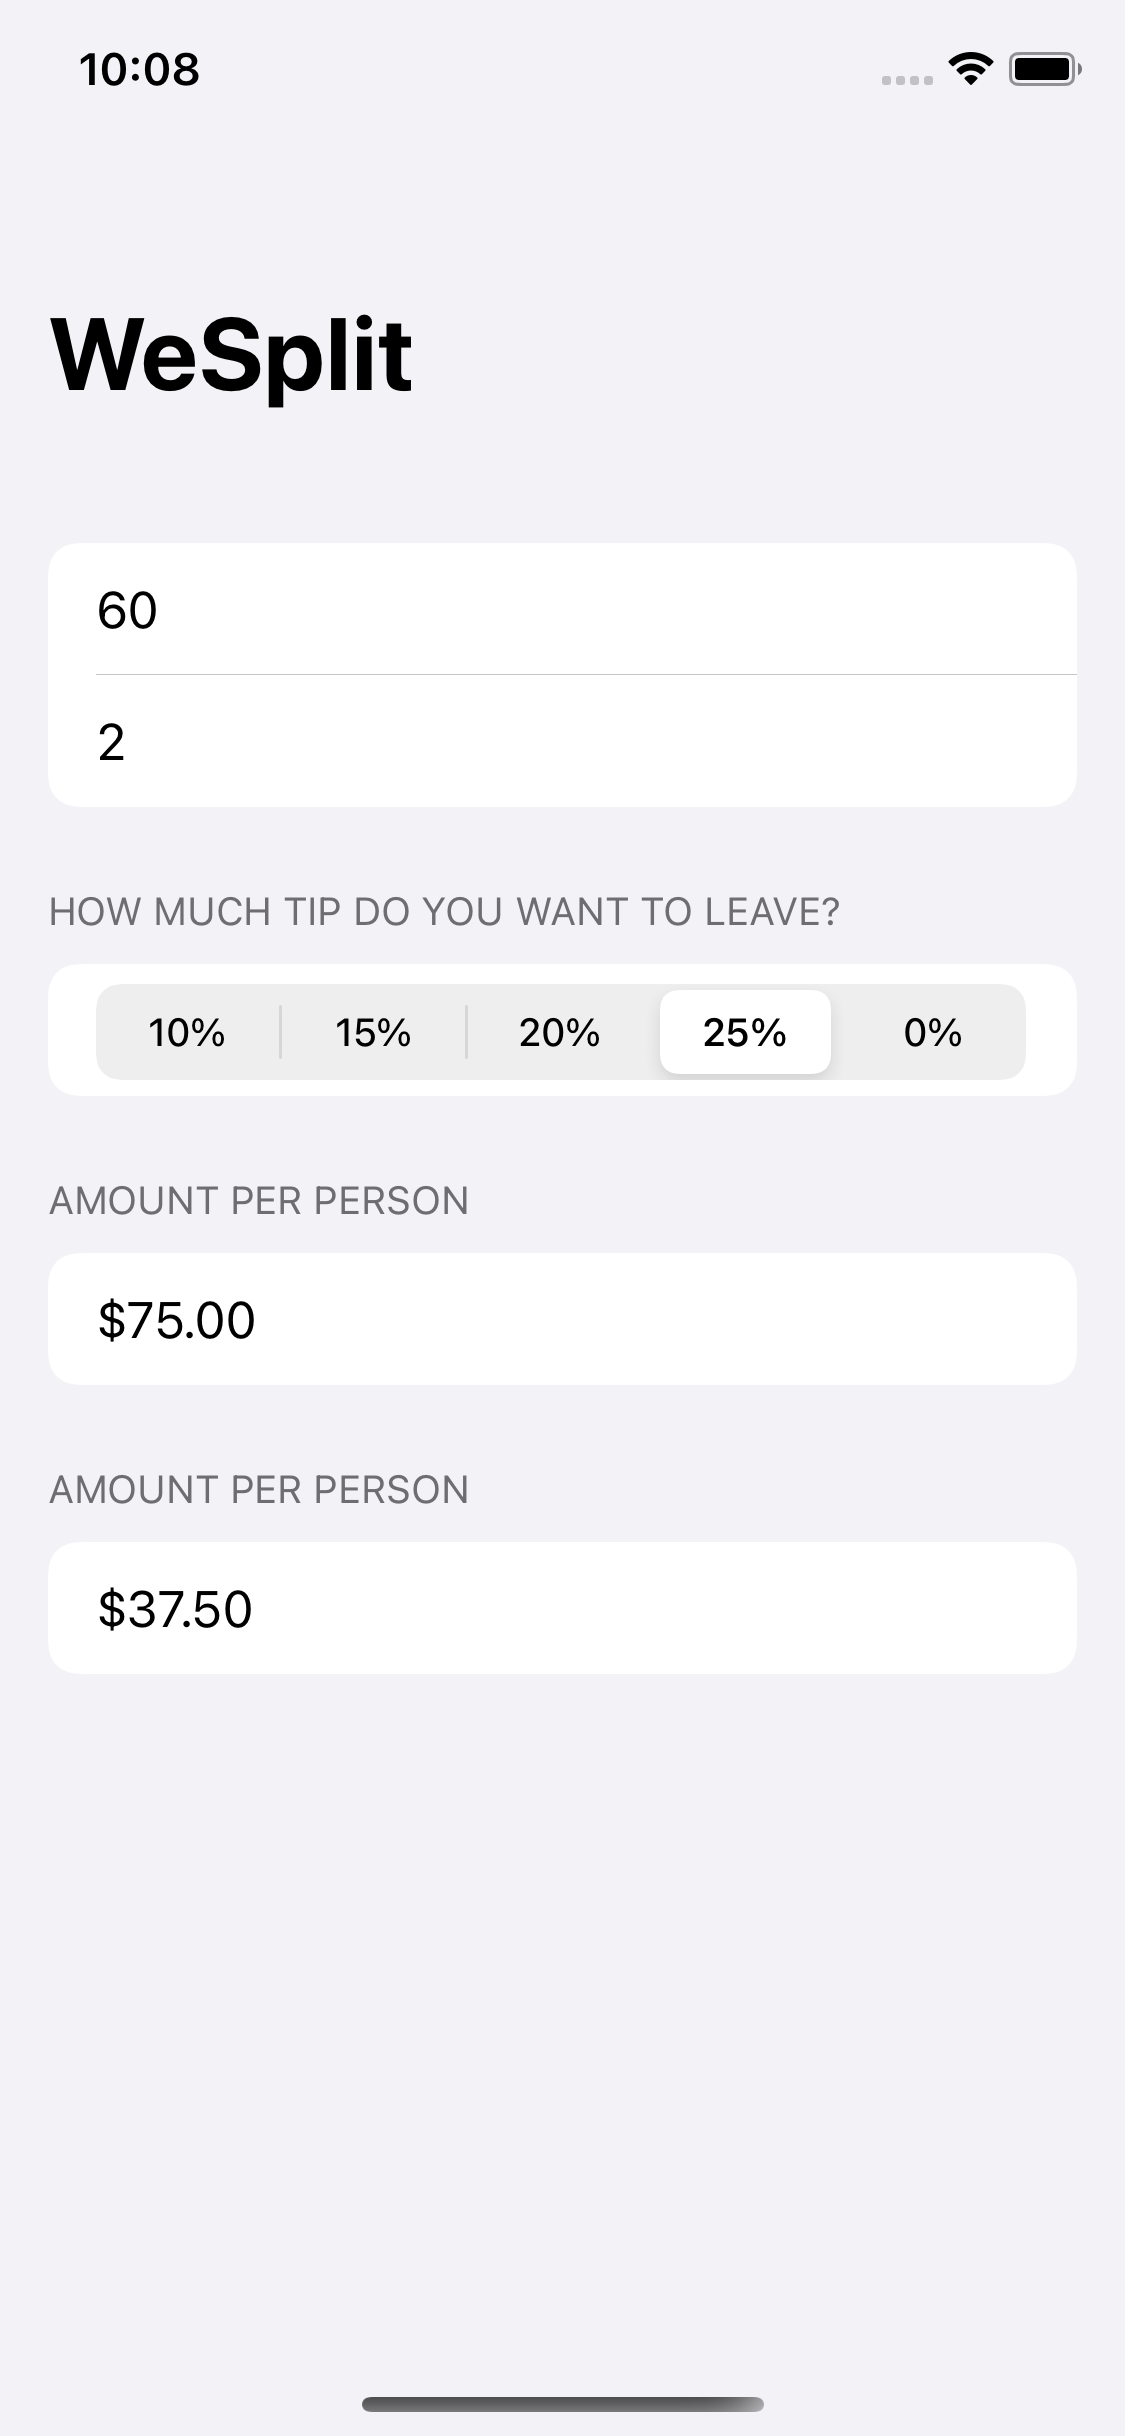
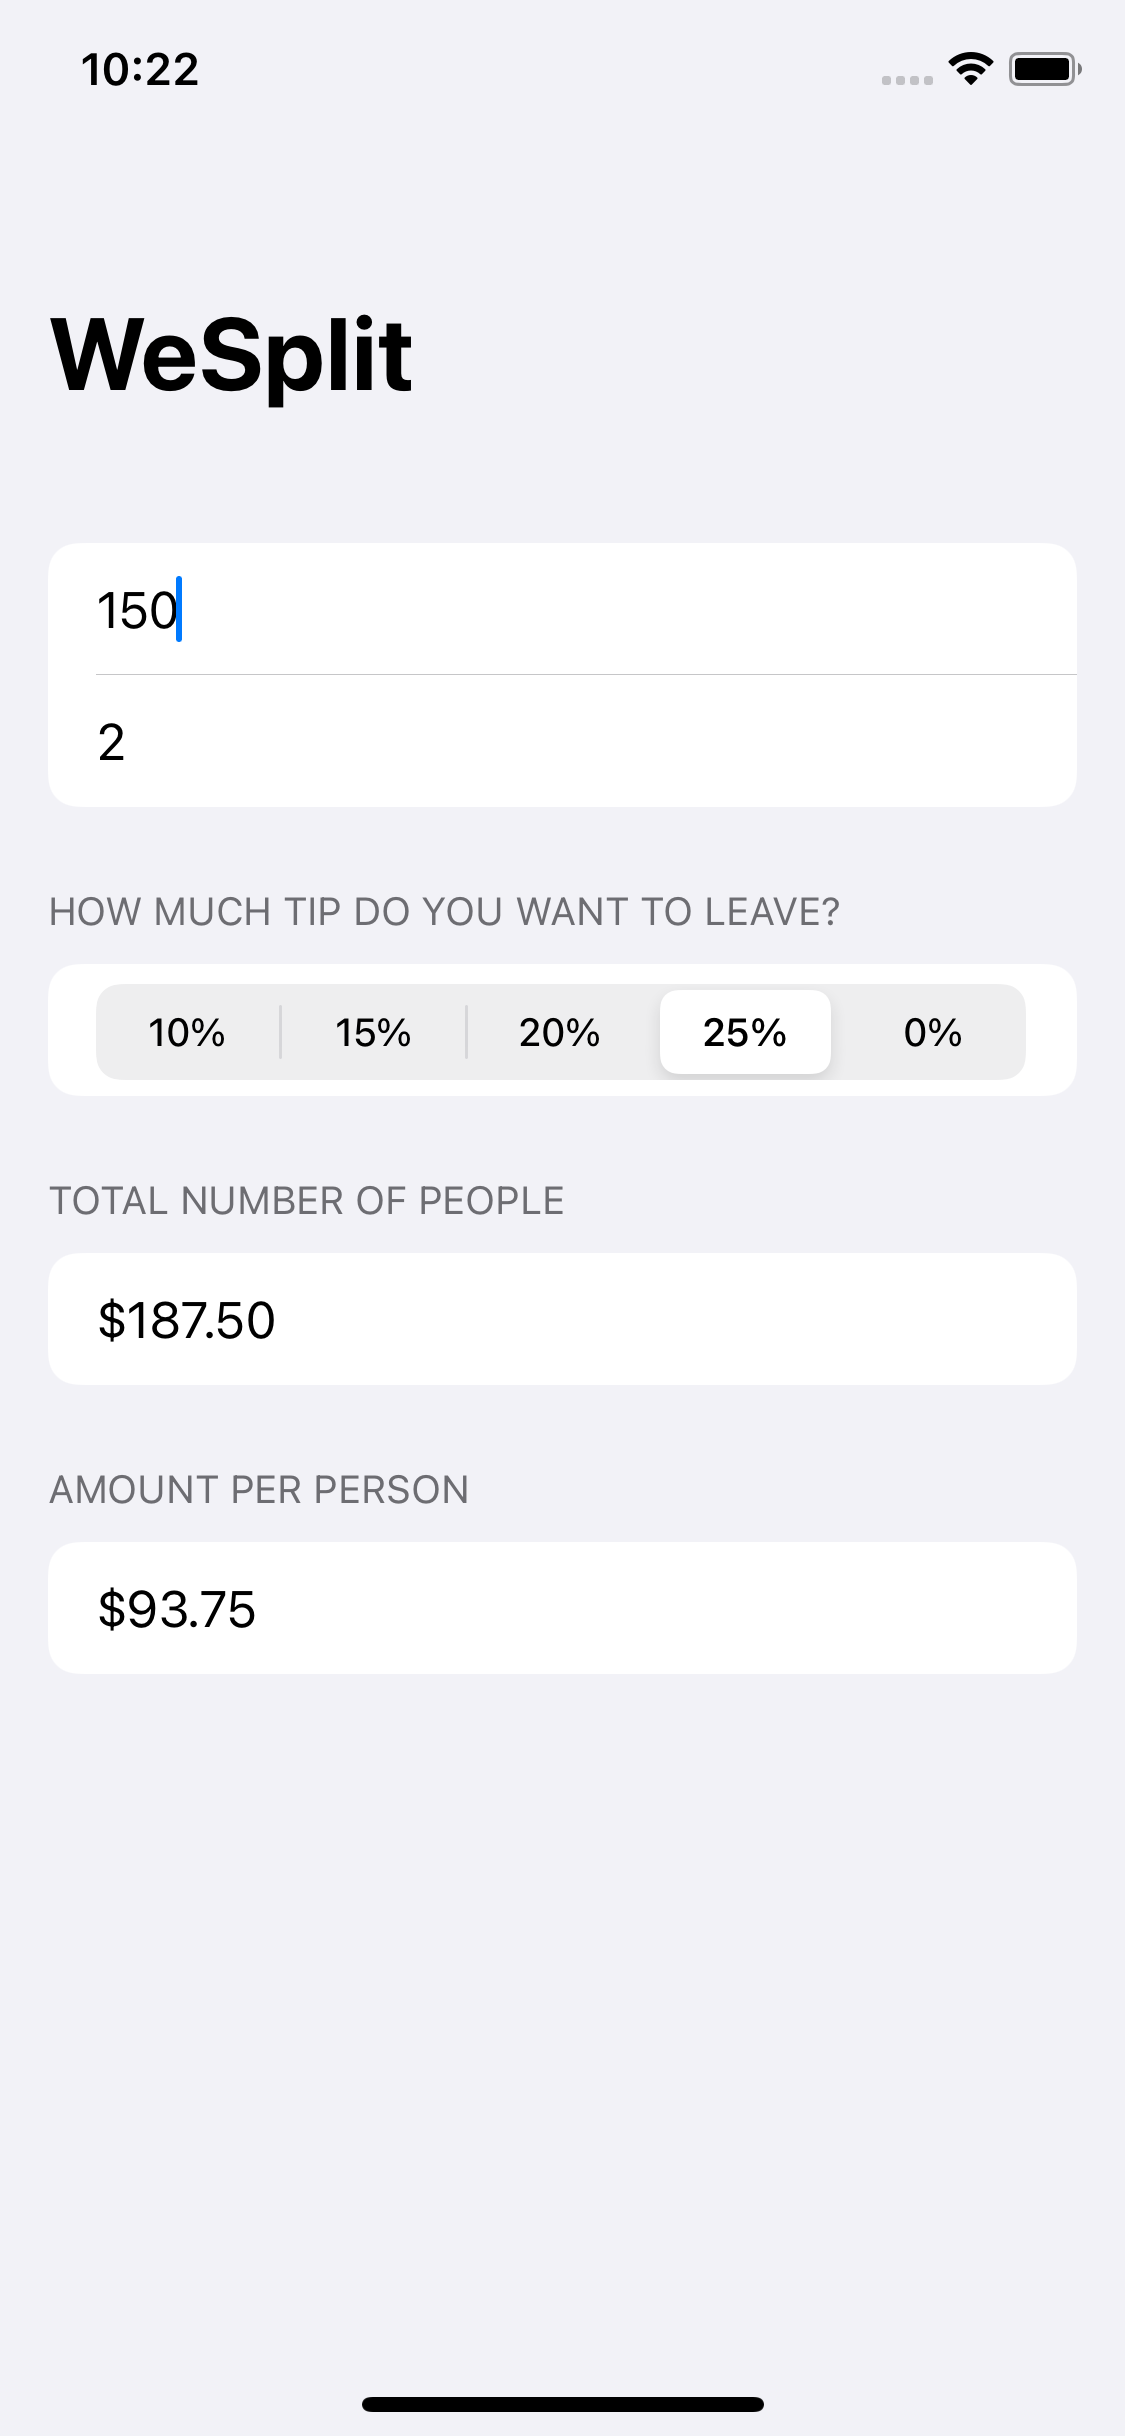
[updated] - text header

diff --git a/wesplit/wesplit/ContentView.swift b/wesplit/wesplit/ContentView.swift
@@ -54,7 +54,7 @@ struct ContentView: View {
                     .pickerStyle(SegmentedPickerStyle())
                 }
                 
-                Section(header: Text("Amount per person")) {
+                Section(header: Text("Total Number Of People")) {
                     Text("$\(total, specifier: "%.2f")")
                 }.navigationBarTitle("WeSplit")
 
